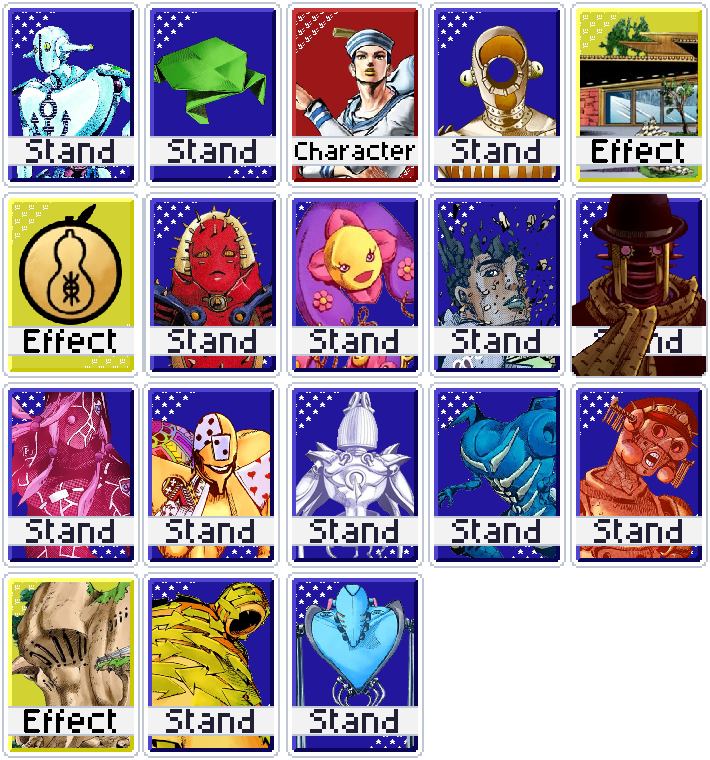
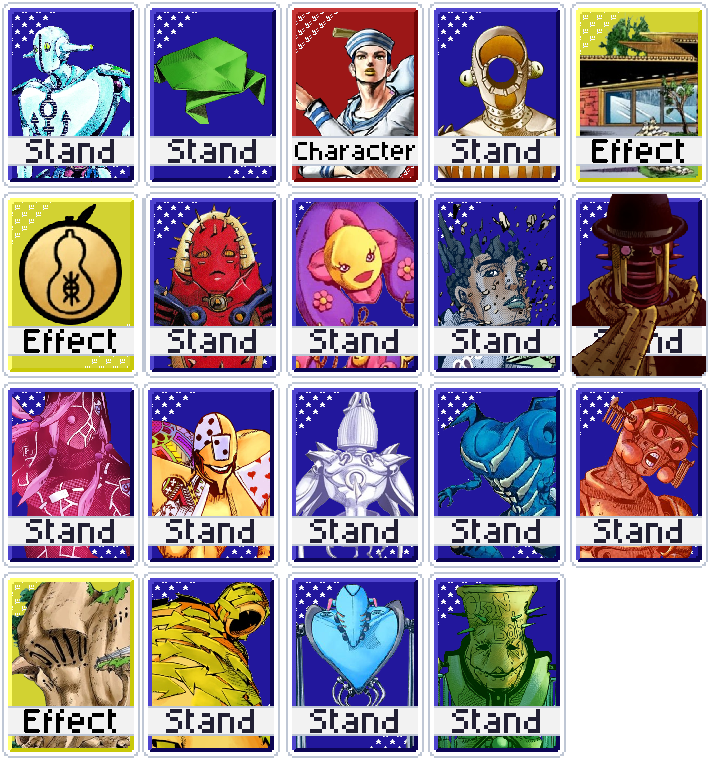
Add Ozon Baby joker

Changed region(s): [[0.5887, 0.7566, 0.8056, 0.9987]]

diff --git a/compendium/tests/test_build.py b/compendium/tests/test_build.py
@@ -28,7 +28,7 @@ def test_outputs_exist(site):
 
 
 def test_data_has_every_joker(data):
-    assert len(data["jokers"]) == 203 and data["version"] == "v9.9.9"
+    assert len(data["jokers"]) == 204 and data["version"] == "v9.9.9"
     assert len(data["themes"]) == 62
 
 

diff --git a/compendium/tests/test_lua_env.py b/compendium/tests/test_lua_env.py
@@ -7,7 +7,7 @@ def find(mod, key):
 
 
 def test_loads_every_joker(mod):
-    assert len(mod.jokers) == 203
+    assert len(mod.jokers) == 204
 
 
 def test_order_is_collection_order(mod):
